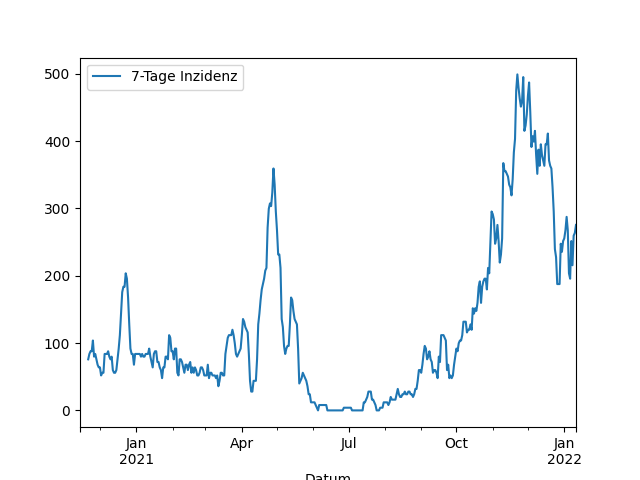
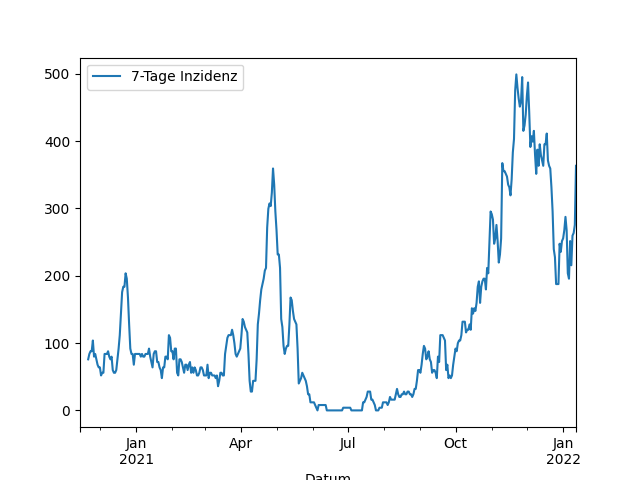
Update images

diff --git a/_includes/aktuelle_inzidenz.md b/_includes/aktuelle_inzidenz.md
@@ -1,1 +1,1 @@
-275,4
+363,2
